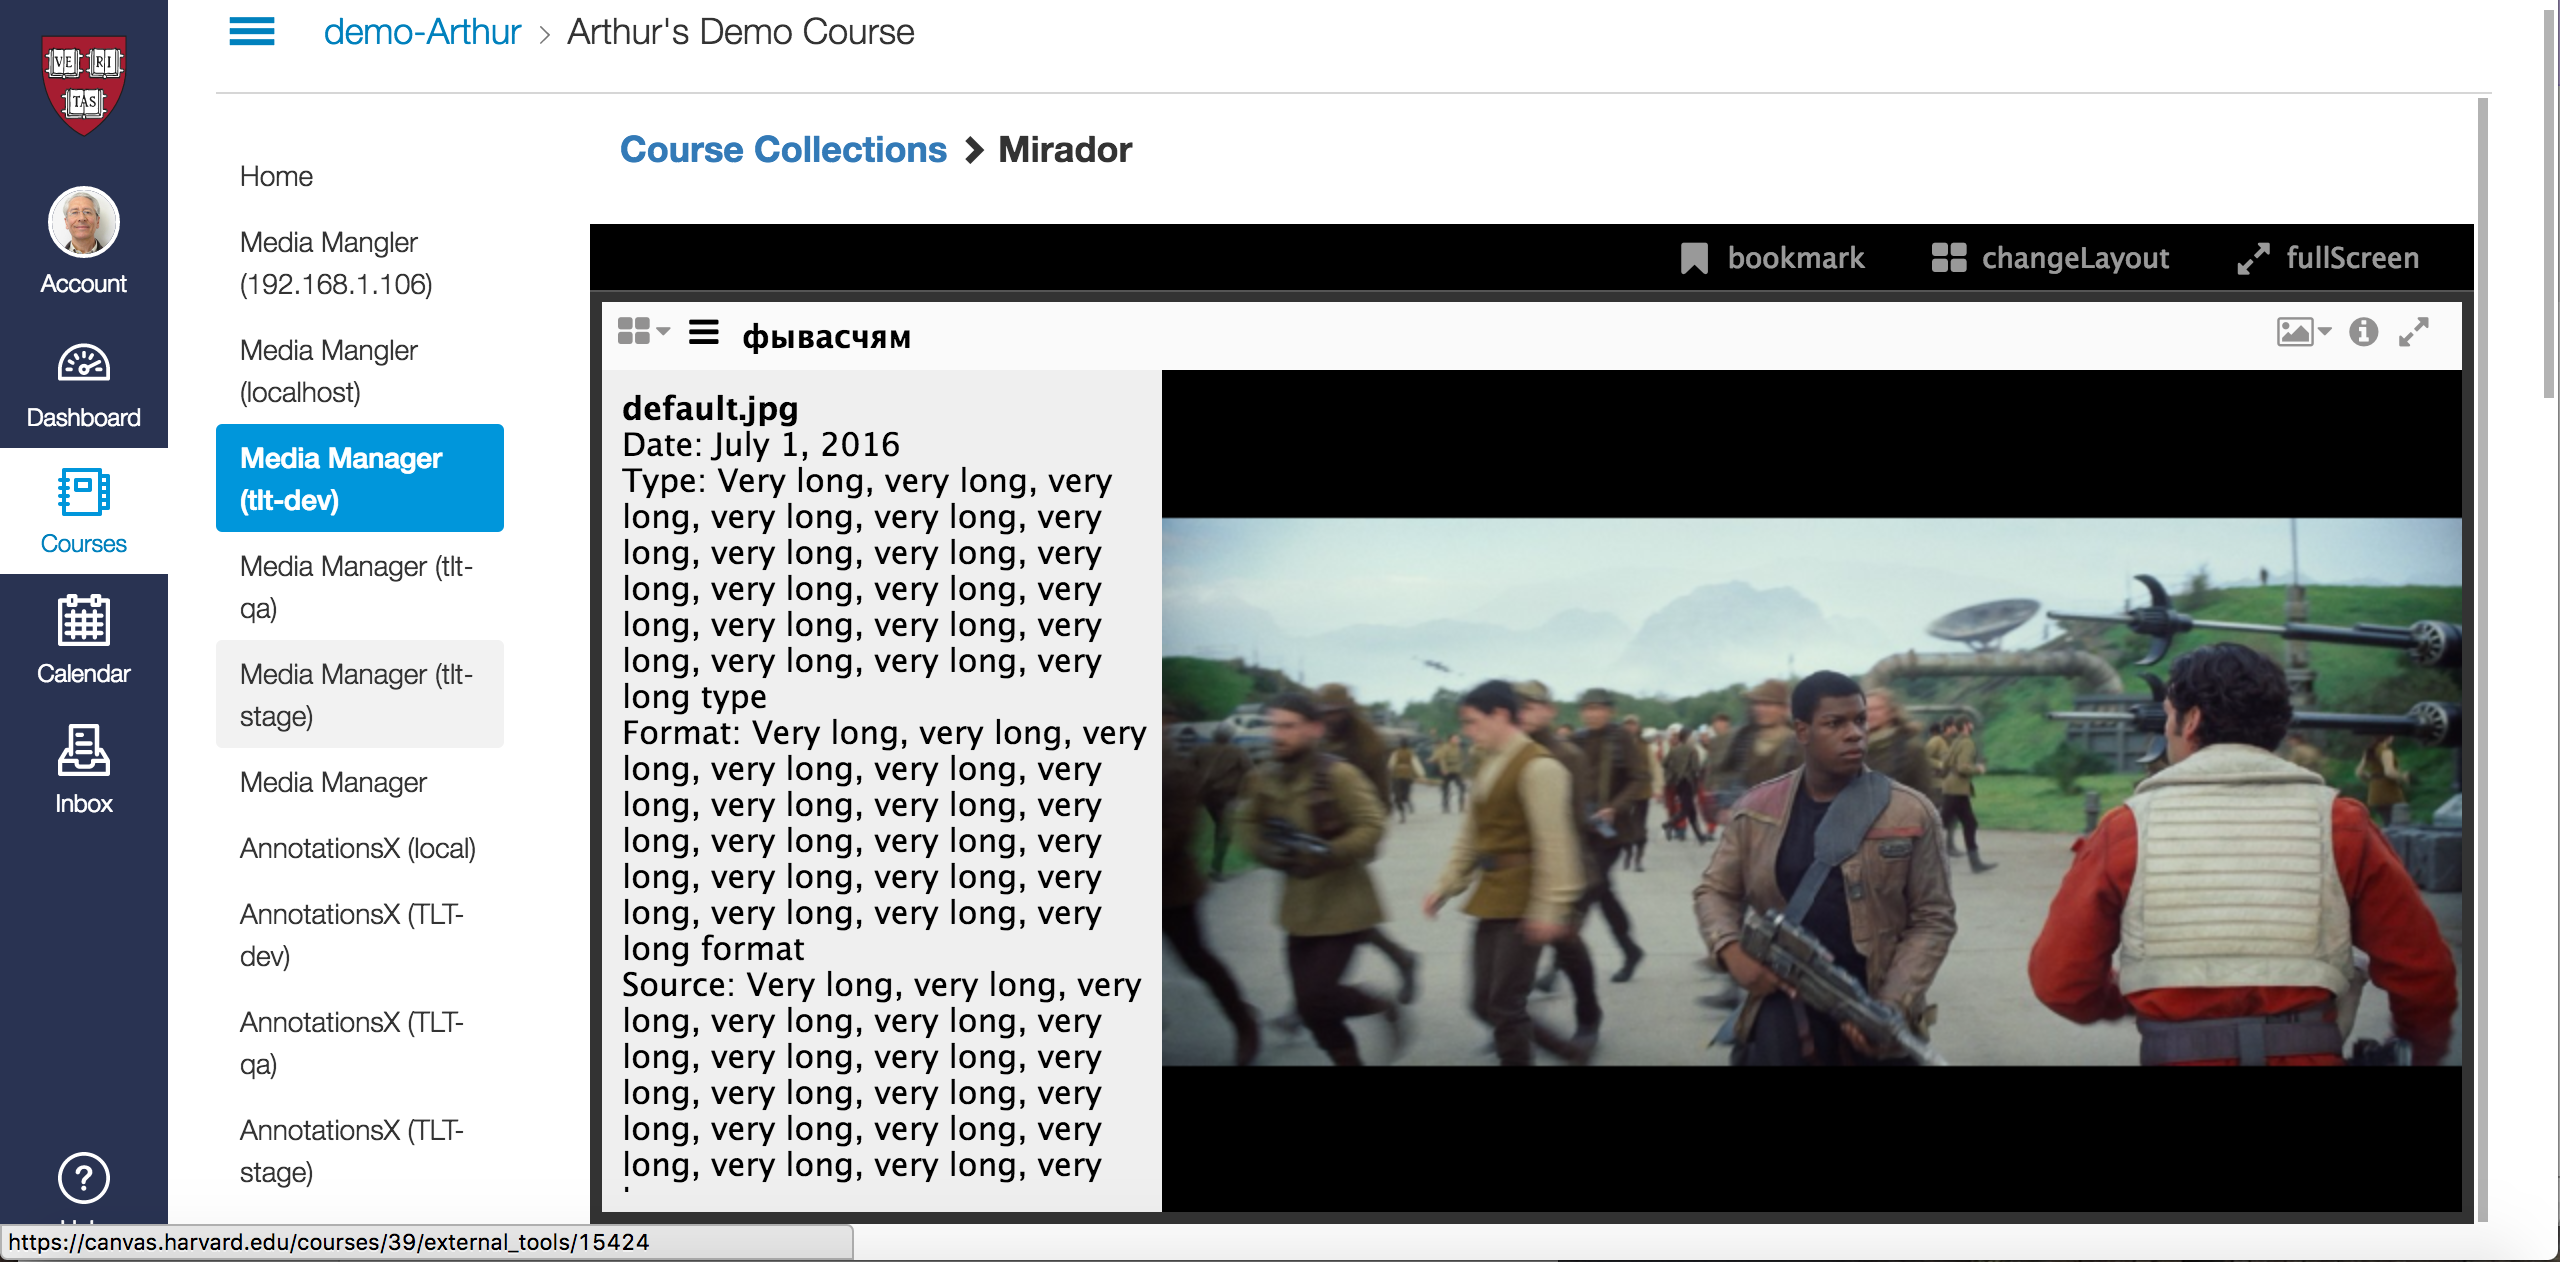
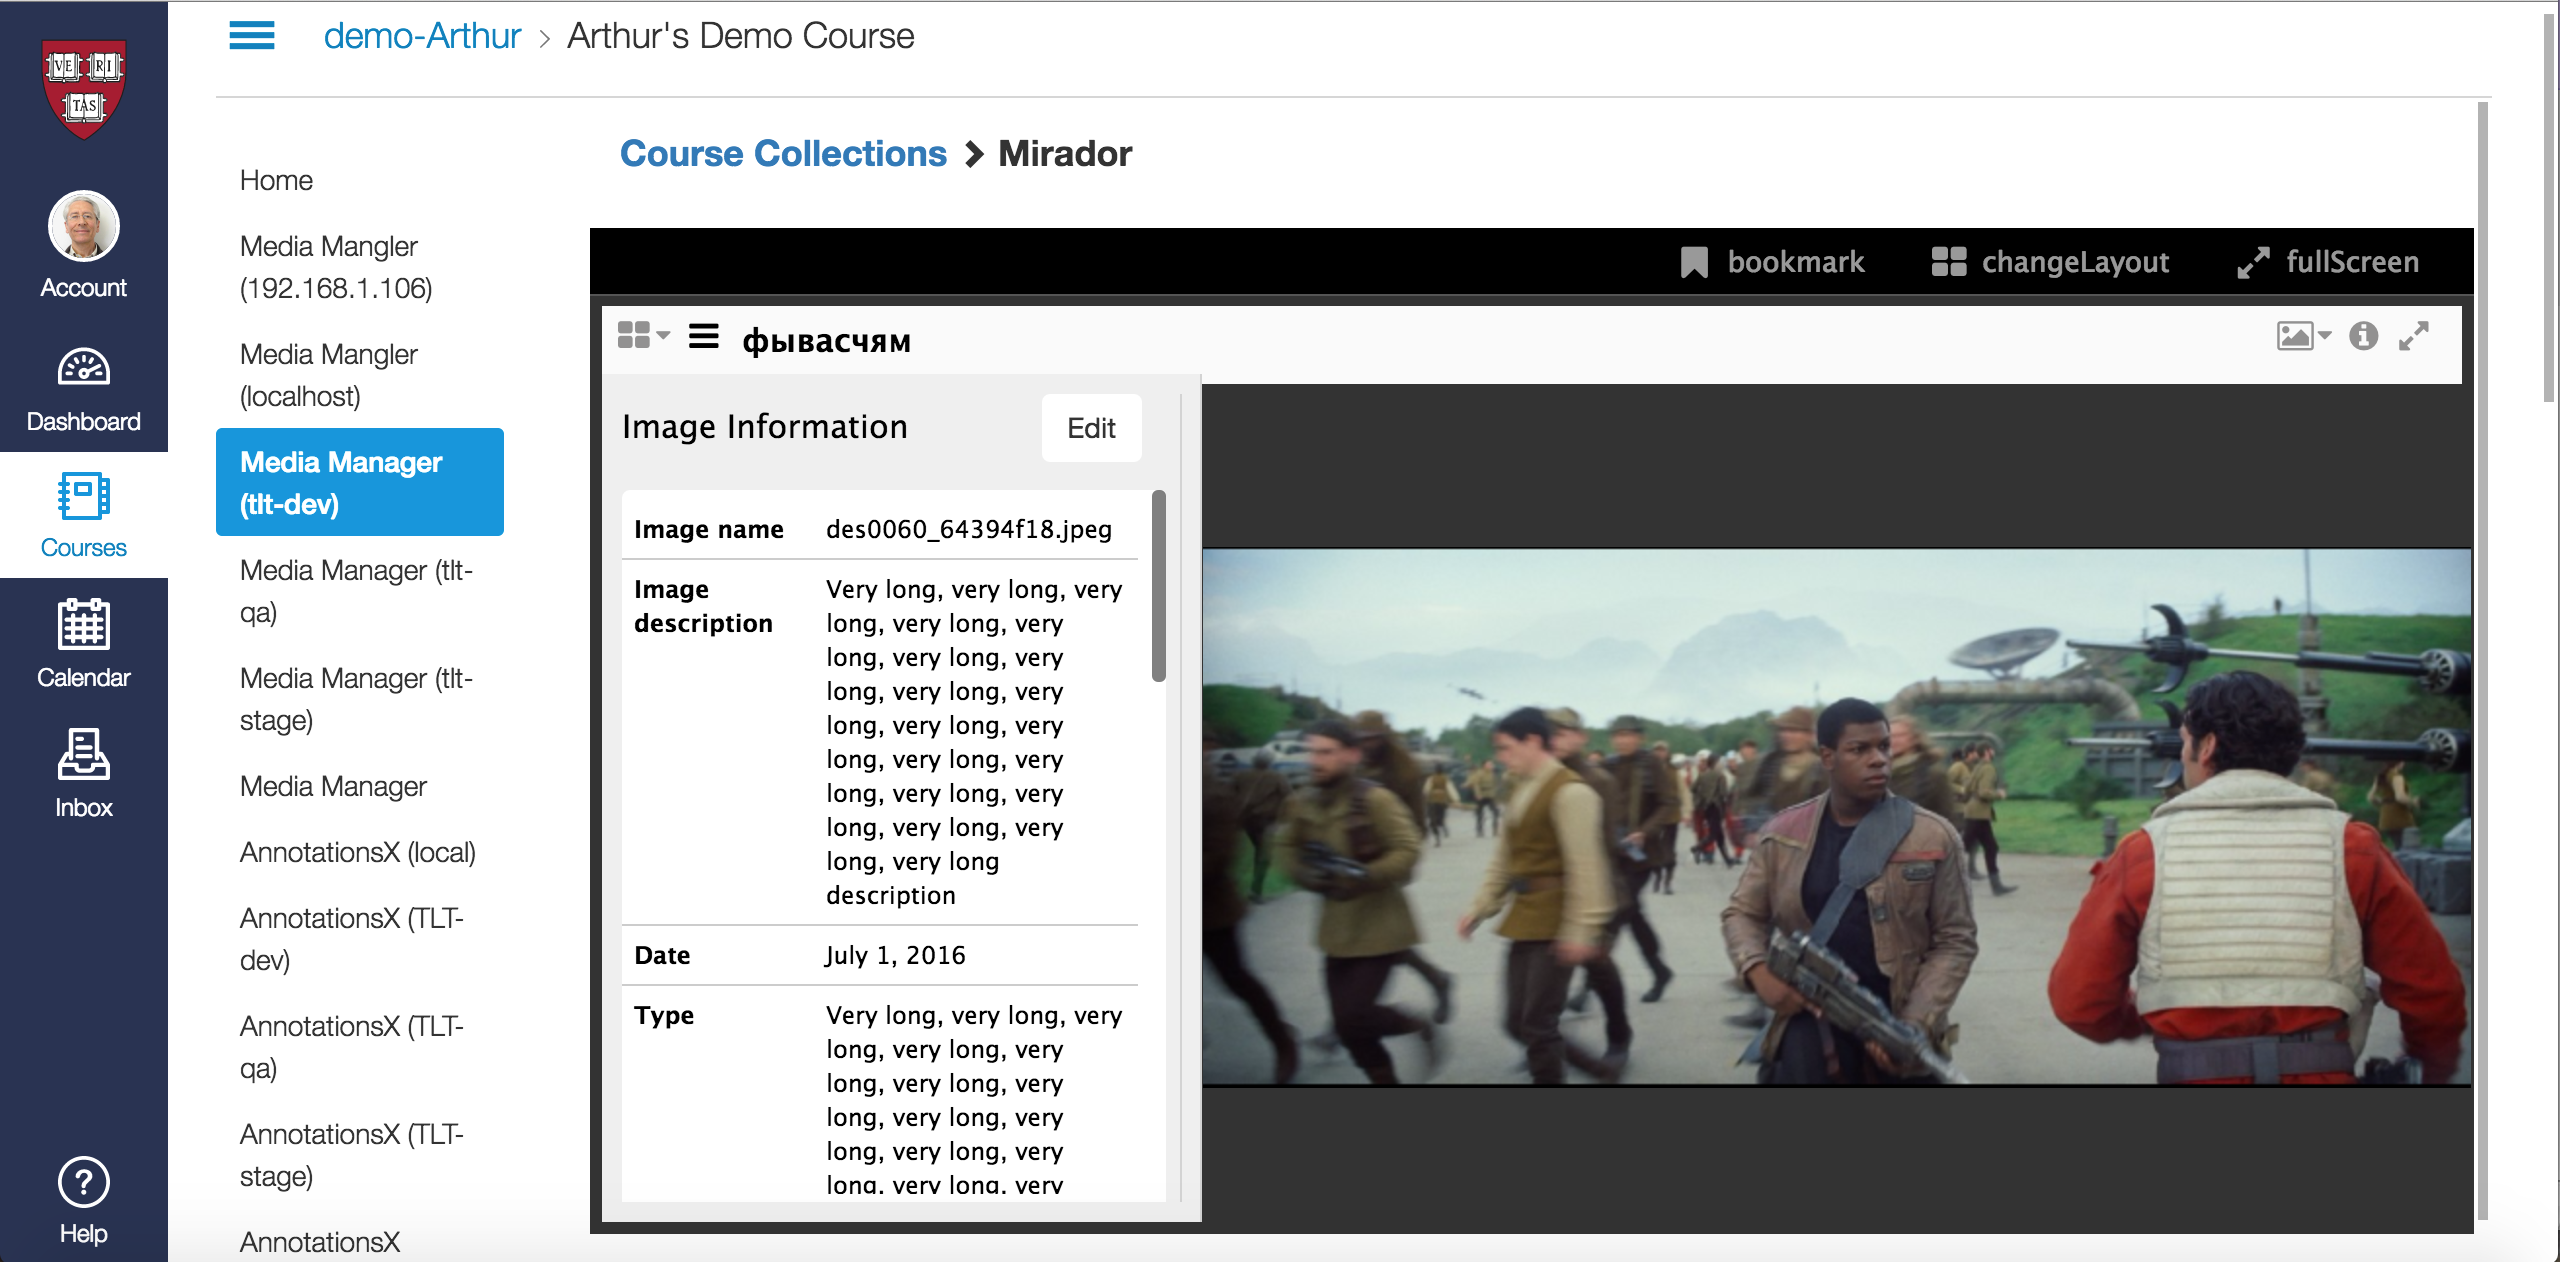
Mirador_Side_Panel, proposed screen and UI

diff --git a/Mirador_Side_Panel/index.html b/Mirador_Side_Panel/index.html
@@ -2,26 +2,177 @@
 	<div class="sidePanel" style="transition-duration: 0.3s; border-right-width: 1px; border-style: none solid none none; border-right-color: lightgray; width: 300px;">
 			<ul class="tabGroup">
 			</ul>
+
 		<div class="tabContentArea">
-			<b>des0060_64394f18.jpeg</b>
-			<br>
-			Date: No value
-			<br>
-			Type: No value
-			<br>
-			Format: No value
-			<br>
-			Source: No value
-			<br>
-			Repository: No value
-			<br>
-			Creator: No value
-			<br>
-			Dimensions: No value
-			<br>
-			Test: фываячсм
-			<br>
-		</div>
+
+<!-- UI comment - styling table and Edit button with Bootstrap styles -->
+			<style>
+				table {
+					table-layout:fixed;
+					width: 21.5em;
+					border-collapse: collapse; 
+					border-box; 
+					display: table; 
+					border-color: #ccc; 
+					font-family: 'Open Sans', 'Lucida Grande', Verdana, Arial,sans-serif; 
+					font-size: 12px; 
+					line-height: 1.42857143; 
+					color: #000;
+					background-color: #fff;
+					margin: 5px 0;
+				}
+				tr {
+					border-bottom: 1px solid #ccc;
+				} 
+				td.label {
+					padding: .5em;
+					font-weight:bold;
+					vertical-align: top;
+					width: 7em;
+				}
+				td.information {
+					padding: .5em;
+					width: 12.5em;
+				}
+				.btn-default {
+				    color: #333;
+				    background-color: #fff;
+				    border-color: #ccc;
+				}
+				.btn {
+				    display: inline-block;
+				    padding: 6px 12px;
+				    margin-bottom: 0;
+				    font-size: 14px;
+				    font-weight: 400;
+				    line-height: 1.42857143;
+				    text-align: center;
+				    white-space: nowrap;
+				    vertical-align: middle;
+				    -ms-touch-action: manipulation;
+				    touch-action: manipulation;
+				    cursor: pointer;
+				    -webkit-user-select: none;
+				    -moz-user-select: none;
+				    -ms-user-select: none;
+				    user-select: none;
+				    background-color: none;
+				    border: 1px solid transparent;
+				    border-radius: 4px;
+				    font-family: "Helvetica Neue",Helvetica,Arial,sans-serif;
+				}
+				.pull-right {
+			  		float: right !important;
+				}
+				/* Customizing scrolling div so that scrollbar is always apparent */
+				::-webkit-scrollbar {
+				    -webkit-appearance: none;
+				    width: 7px;
+				}
+				::-webkit-scrollbar-thumb {
+				    border-radius: 4px;
+				    background-color: rgba(0,0,0,.5);
+				    -webkit-box-shadow: 0 0 1px rgba(255,255,255,.5);
+				}
+			</style>
+
+<!-- UI comment - pesky inline styles to force the width of this div and to vertically align the text of the header with the button -->
+			<div style="width:16.25em">
+				<h4 style="margin-bottom: 1em; line-height: 2em;">
+					Image Information
+					<button type="button" class="btn btn-default pull-right">Edit</button>
+				</h4>
+			</div>
+
+<!-- UI comment - scrolling div with Bootstrap style border-radius -->
+			<div style="overflow:scroll; height:23em; width:17em; border-radius: 4px; background-color: #ffffff;">
+				<table>
+					<tbody>
+						<tr>
+							<td class="label">
+								Image name
+							</td>
+							<td class="information">
+								des0060_64394f18.jpeg
+							</td>
+							<td>
+						</tr>
+						<tr>
+							<td class="label">
+								Image description
+							</td>
+							<td class="information">
+								Very long, very long,  very long,  very long,  very long,  very long,  very long,  very long,  very long,  very long,  very long,  very long,  very long,  very long,  very long,  very long,  very long,  very long description
+							</td>
+						</tr>
+						<tr>
+							<td class="label">
+								Date
+							</td>
+							<td class="information">
+								July 1, 2016
+							</td>
+						</tr>
+						<tr>
+							<td class="label">
+								Type
+							</td>
+							<td class="information">
+								Very long, very long,  very long,  very long,  very long,  very long,  very long,  very long,  very long,  very long,  very long,  very long,  very long,  very long,  very long,  very long,  very long,  very long type
+							</td>
+						</tr>
+						<tr>
+							<td class="label">
+								Format
+							</td>
+							<td class="information">
+								Very long, very long,  very long,  very long,  very long,  very long,  very long,  very long,  very long,  very long,  very long,  very long,  very long,  very long,  very long,  very long,  very long,  very long format
+							</td>
+						</tr>
+						<tr>
+							<td class="label">
+								Source
+							</td>
+							<td class="information">
+								Very long, very long,  very long,  very long,  very long,  very long,  very long,  very long,  very long,  very long,  very long,  very long,  very long,  very long,  very long,  very long,  very long,  very long source
+							</td>
+						</tr>
+						<tr>
+							<td class="label">
+								Repository
+							</td>
+							<td class="information">
+								Very long, very long,  very long,  very long,  very long,  very long,  very long,  very long,  very long,  very long,  very long,  very long,  very long,  very long,  very long,  very long,  very long,  very long repository
+							</td>
+						</tr>
+						<tr>
+							<td class="label">
+								Creator
+							</td>
+							<td class="information">
+								Very long, very long,  very long,  very long,  very long,  very long,  very long,  very long,  very long,  very long,  very long,  very long,  very long,  very long,  very long,  very long,  very long,  very long creator
+							</td>
+						</tr>
+						<tr>
+							<td class="label">
+								Dimensions
+							</td>
+							<td class="information">
+								Extra large
+							</td>
+						</tr>
+						<tr>
+							<td class="label">
+								Test
+							</td>
+							<td class="information">
+								фываячсм, фываячсм, фываячсм, фываячсм, фываячсм, фываячсм, фываячсм, фываячсм, фываячсм, фываячсм, фываячсм, фываячсм, фываячсм, фываячсм, фываячсм, фываячсм, фываячсм, фываячсм, фываячсм, фываячсм
+							</td>
+							<td>
+						</tr>
+					</tbody>
+				</table>
+			</div>
 		</div>
 			<div class="overlay">
 				<div class="sub-title">details:</div>
